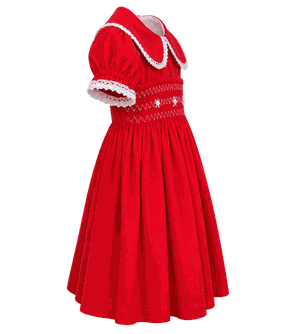
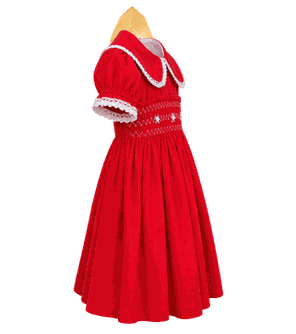
Adicionar cabides de madeira aos vestidos e duas colunas no celular

Changed region(s): [[0.2128, 0.0, 0.7905, 0.988], [0.4865, 0.8084, 0.5169, 0.8383]]

diff --git a/loja.js b/loja.js
@@ -132,7 +132,11 @@
       const first=card.querySelector('.foto img');
       const name=first.getAttribute('src').split('/').pop().replace(/\.(?:jpg|jpeg|png)$/,'');
       if(cutoutNames.has(name)) {
-        first.dataset.original=first.getAttribute('src');first.dataset.frente='assets/recortes/'+name+'.png?v=20261115';first.dataset.lateral='assets/laterais/'+name+(name==='vestido-moranguinho-azul'?'-direita':'')+'.png';first.src=first.dataset.lateral;
+        first.dataset.original=first.getAttribute('src');first.dataset.frente='assets/recortes/'+name+'.png?v=20261115';first.dataset.lateral='assets/laterais/'+name+(name==='vestido-moranguinho-azul'?'-direita':'')+'.png';if (card.dataset.id === 'BIB-054' || card.dataset.id === 'BIB-057') {
+          first.dataset.frente = first.dataset.frente.split('?')[0] + '?v=cabide2';
+          first.dataset.lateral += '?v=cabide2';
+        }
+        first.src=first.dataset.lateral;
         card.classList.add('tem-recorte');
         const hook=document.createElement('span');hook.className='gancho-direita gancho-real';card.querySelector('.foto').append(hook);
         first.addEventListener('load',()=>fitHanger(card));fitHanger(card);

diff --git a/index.html b/index.html
@@ -253,7 +253,7 @@ body::before { content: ""; position: fixed; inset: 0 0 auto; height: env(safe-a
 @media (max-width: 340px) { .btn { flex-basis: 100%; } }
 @media (prefers-reduced-motion: reduce) { * { transition: none !important; animation: none !important; scroll-behavior: auto !important; } }
 </style>
-<link rel="stylesheet" href="loja.css?v=20261122-cores"><link rel="stylesheet" href="favoritos.css?v=20261116">
+<link rel="stylesheet" href="loja.css?v=20261122-cabides-mobile"><link rel="stylesheet" href="favoritos.css?v=20261116">
 </head>
 <body>
 <!-- Google Tag Manager (noscript) -->
@@ -1504,6 +1504,6 @@ document.getElementById("ano").textContent = new Date().getFullYear();
 render();
 </script>
 
-<script src="encaixe-cabides.js?v=20261122-smock-lavanda"></script><script src="loja.js?v=20261122-cores"></script><script src="zoom.js?v=20261115-topomobile"></script><script src="favoritos.js?v=20261122-cores"></script>
+<script src="encaixe-cabides.js?v=20261122-smock-lavanda"></script><script src="loja.js?v=20261122-cabides-mobile"></script><script src="zoom.js?v=20261115-topomobile"></script><script src="favoritos.js?v=20261122-cores"></script>
 </body>
 </html>

diff --git a/loja.css b/loja.css
@@ -305,7 +305,12 @@ body {overflow-x:clip;}
 .gancho-direita svg {display:block;width:100%;height:100%;overflow:visible;}
 .cenario-boutique:not(.modo-outras) .em-destaque .gancho-direita {height:2.86cqw;}
 @media(max-width:900px){.grade-catalogo {grid-template-columns:repeat(2,minmax(0,1fr));gap:20px;}}
-@media(max-width:550px){.grade-catalogo {grid-template-columns:1fr;}.catalogo-completo {margin-top:45px;}}
+@media(max-width:550px){.grade-catalogo {grid-template-columns:repeat(2,minmax(0,1fr));gap:10px;}
+.grade-catalogo .peca .info {padding:10px;}
+.grade-catalogo .peca .acoes {display:flex;flex-direction:column;align-items:stretch;}
+.grade-catalogo .peca .btn {min-width:0;white-space:normal;}
+.grade-catalogo .peca .tamanhos {min-inline-size:0;}
+.grade-catalogo .peca h3 {overflow-wrap:anywhere;}.catalogo-completo {margin-top:45px;}}
 /* Cabideiro primeiro; catálogo e controles abaixo. */
 .topo {border:0;box-shadow:none;}
 .vitrine > .wrap {padding-top:24px;}
